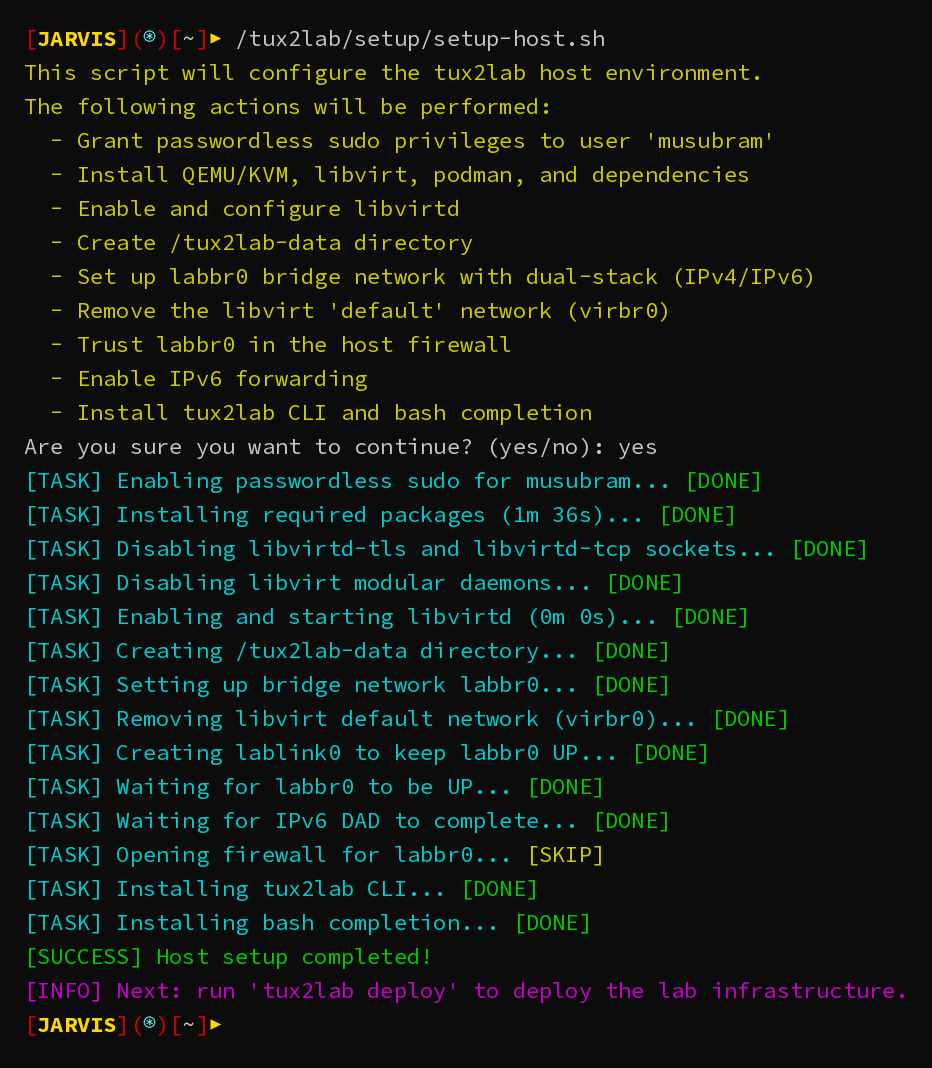
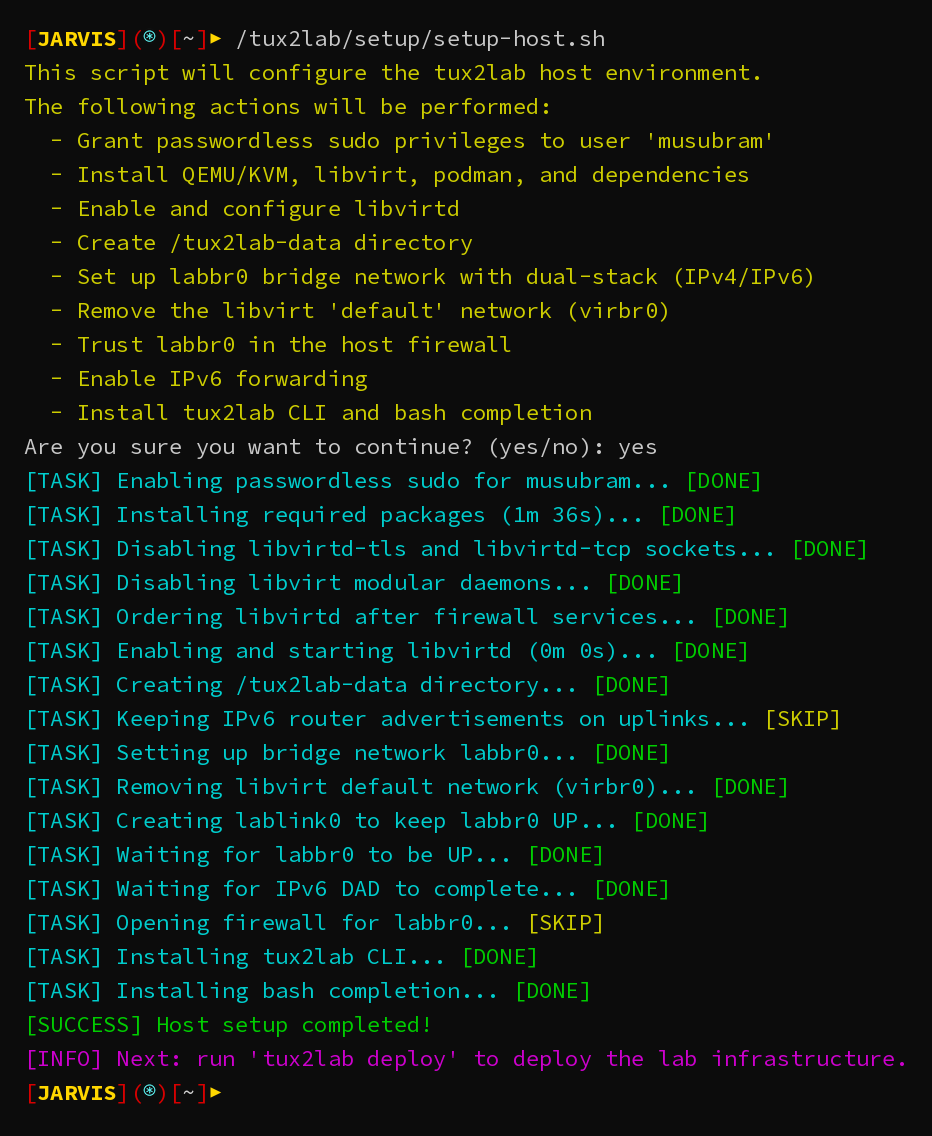
Bring the lab network up reliably on every host
Setup now reruns safely on a live lab without tearing the bridge
down, reports why libvirt refused to start the network, keeps IPv6
router advertisements working on hosts that rely on them, and makes
libvirtd wait for the firewall at boot so the network autostarts.

diff --git a/docs/render-scripts/render-setup-host.py b/docs/render-scripts/render-setup-host.py
@@ -19,8 +19,10 @@ lines.append(task("Enabling passwordless sudo for musubram...", "[DONE]", GREEN)
 lines.append(task("Installing required packages (1m 36s)...", "[DONE]", GREEN))
 lines.append(task("Disabling libvirtd-tls and libvirtd-tcp sockets...", "[DONE]", GREEN))
 lines.append(task("Disabling libvirt modular daemons...", "[DONE]", GREEN))
+lines.append(task("Ordering libvirtd after firewall services...", "[DONE]", GREEN))
 lines.append(task("Enabling and starting libvirtd (0m 0s)...", "[DONE]", GREEN))
 lines.append(task("Creating /tux2lab-data directory...", "[DONE]", GREEN))
+lines.append(task("Keeping IPv6 router advertisements on uplinks...", "[SKIP]", YELLOW))
 lines.append(task("Setting up bridge network labbr0...", "[DONE]", GREEN))
 lines.append(task("Removing libvirt default network (virbr0)...", "[DONE]", GREEN))
 lines.append(task("Creating lablink0 to keep labbr0 UP...", "[DONE]", GREEN))
